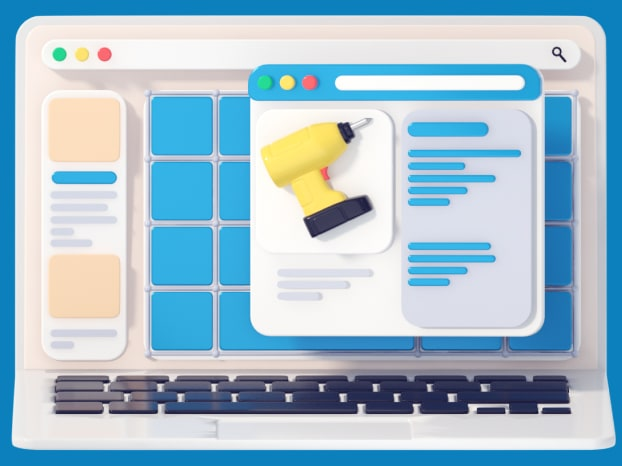
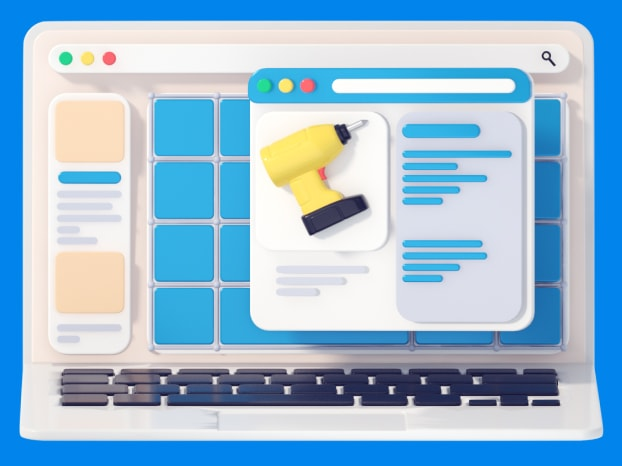
benefits screenshots

diff --git a/src/styles/_benefits.css b/src/styles/_benefits.css
@@ -113,12 +113,9 @@
     .benefits__item--for-distributor-manufacturer {
 
     }
-
-        /*@media (min-width: 1400px) {*/
-            .benefits__item--for-distributor-manufacturer .benefits__screenshot {
-                margin-right: -44px;
-            }
-        /*}*/
+        .benefits__item--for-distributor-manufacturer .benefits__screenshot {
+            margin-left: -19px;
+        }
 
     .benefits__item--for-dealer-and-seller {
 
